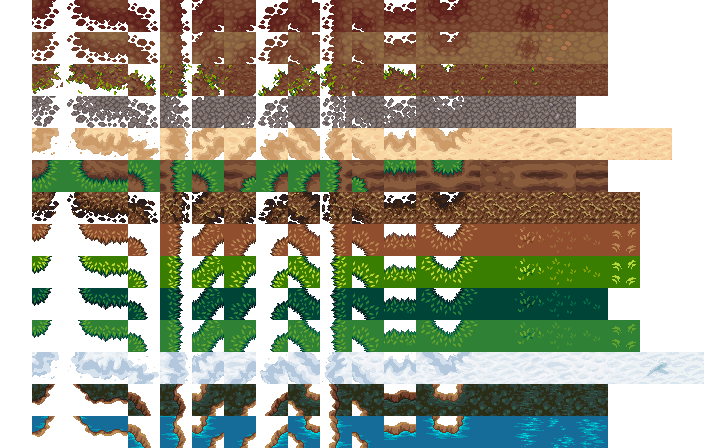
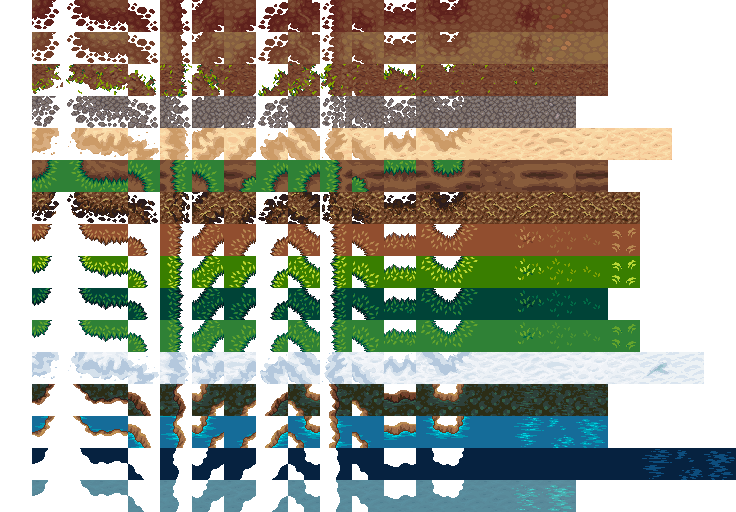
Water: shallows and fords waded, deep open sea, rivers never run uphill
Three waters from the generator's data: shallows at the edges of the sea
and lakes and fords midway along narrower rivers (everyone wades through,
creatures too, no running); common water; deep water in the open sea and
the middle of deep lakes, twice as hard to swim. A hollow too shallow for
a lake keeps its water surface, so rivers never climb. LPC shallows and
deep water with bankless edges where waters meet. World format 5.

TODO: more events that change a village's trust (author's request).

ADR-0051.

diff --git a/tools/art/import_lpc_env.py b/tools/art/import_lpc_env.py
@@ -43,6 +43,8 @@ GROUNDS = {
     "base:snow": ("Snow_1", 10),
     "base:bog": ("Water_Green", 11),
     "base:water": ("Water", 12),
+    "base:deep_water": ("Water_Deep", 13),
+    "base:shallows": ("Water_Shallows_Sand", 14),
     "base:cave_floor": ("Dirt_Dark", -1),
 }
 FARM = SRC / "lpc-farm" / "submission_daneeklu" / "tilesets"
@@ -50,6 +52,9 @@ FARM = SRC / "lpc-farm" / "submission_daneeklu" / "tilesets"
 # as corner masks (TL 1, TR 2, BL 4, BR 8) -> (column, row) of the block.
 BLOCK_MASKS = {7: (1, 0), 11: (2, 0), 13: (1, 1), 14: (2, 1), 8: (0, 2), 12: (1, 2), 4: (2, 2),
                10: (0, 3), 15: (1, 3), 5: (2, 3), 2: (0, 4), 3: (1, 4), 1: (2, 4)}
+# Waters that meet water (ADR-0051): no banks between them. Their edge
+# pieces are their fill cut to the water (not the bank) of Water's.
+SHAPE_FROM = {"Water_Shallows_Sand": "Water", "Water_Deep": "Water"}
 # Fills that are other things (animated water, a cracked variant) are left out.
 SKIP_FILLS = {"Water": {566, 569, 572}}
 
@@ -118,10 +123,18 @@ def build_terrain():
             continue
         masks = tiles[name]
         missing = [m for m in range(1, 16) if m not in masks]
-        if missing:
+        shape = SHAPE_FROM.get(name)
+        if missing and not (shape and 15 in masks):
             sys.exit("%s lacks masks %s" % (name, missing))
         for m in range(1, 15):
-            atlas.paste(tile(masks[m][0]), (m * T, r * T))
+            if not shape:
+                atlas.paste(tile(masks[m][0]), (m * T, r * T))
+                continue
+            cut = tile(masks[15][0])
+            edge = tile(tiles[shape][m][0])
+            alpha = [255 if a > 0 and b > rr + 25 else 0 for (rr, _g, b, a) in edge.getdata()]
+            cut.putalpha(Image.frombytes("L", (T, T), bytes(alpha)))
+            atlas.paste(cut, (m * T, r * T))
         # A fill must be the ground itself: whole, and like the first one
         # (some tiles marked full are other things, holes or overlays).
         first = tile(masks[15][0])

diff --git a/docs/TODO.md b/docs/TODO.md
@@ -1,18 +1,10 @@
 # Что ещё не сделано — по порядку
 
-Задачи идут в том порядке, в котором их стоит делать: каждая опирается на то, что выше. Этапы 3–12 — план автора от 21.10.2026 (мир по законам природы, вещи как изделия) с его поправками от 22.10.2026 вместе с отложенным; плавание (v0.4.0, ADR-0050) и география (v0.5.0, ADR-0049) уже сделаны; после каждого этапа — коммит, пуш и выпуск. Ниже этапов — запас без жёсткого порядка. Источник — в скобках. Решения, которые принимает автор, — в [`design/OPEN_QUESTIONS.md`](design/OPEN_QUESTIONS.md). Сделанное вычёркивается отсюда и записывается в [`PROGRESS.md`](PROGRESS.md).
-
-## Этап 5. Вода: реки, озёра, моря, болота (v0.6.0)
-
-Зависит от 4 (сделан: сток, реки с притоками, озёра в котловинах, бессточные котловины, болота в сырых низинах — ADR-0049).
-
-- Броды (мелкие места на реках, где не плывут, а идут вброд) и места для мостов — узкие, у дорог.
-- Берега озёр и рек — песок, галька, тростник по месту; глубокая вода посреди моря и больших озёр отличается от мелкой у берега.
-- Тесты: ни одна река не течёт в гору; броды есть на каждой большой реке у появления.
+Задачи идут в том порядке, в котором их стоит делать: каждая опирается на то, что выше. Этапы 3–12 — план автора от 21.10.2026 (мир по законам природы, вещи как изделия) с его поправками от 22.10.2026 вместе с отложенным; плавание (v0.4.0, ADR-0050), география (v0.5.0, ADR-0049) и вода (v0.6.0, ADR-0051) уже сделаны; после каждого этапа — коммит, пуш и выпуск. Ниже этапов — запас без жёсткого порядка. Источник — в скобках. Решения, которые принимает автор, — в [`design/OPEN_QUESTIONS.md`](design/OPEN_QUESTIONS.md). Сделанное вычёркивается отсюда и записывается в [`PROGRESS.md`](PROGRESS.md).
 
 ## Этап 6. Лодка (v0.7.0)
 
-Зависит от 5 (моря, реки, озёра). Плавание есть (ADR-0050), но между материками и через большие озёра без лодки не перебраться.
+Плавание есть (ADR-0050), но открытое море между материками глубокое (ADR-0051): без лодки не перебраться.
 
 - Лодка — изделие (ADR-0048): делается у верстака, спускается на воду, в неё садятся и плывут — быстрее плавания, без усталости, с вещами в сумке; на берегу её можно вытащить и забрать.
 - Видна всем, другие могут сесть рядом (если вместит); износ корпуса, починка.
@@ -82,6 +74,11 @@
 
 ### Деревни и жители
 
+- **Больше событий, меняющих доверие деревни** (автор, 22.10.2026): сейчас доверие растёт только от выполненной просьбы (+1) и падает от удара (−1) и убийства (−3). Нужно, чтобы деревня видела и помнила больше дел героя; что и насколько меняет доверие — данные:
+  - **хорошее:** отбить волков или разбойников от деревни и её скота; потушить пожар; помочь в голод едой или в беду лекарством; починить дом или общую постройку, помочь построить новую; найти пропавшего жителя или вещь; вытащить тонущего; помочь с жатвой или сенокосом; дары и честная торговля — продать нужное дешевле, когда в деревне недостаток; отнести письмо или товар в соседнюю деревню; научить жителя ремеслу; прийти на праздник или ярмарку и участвовать (по временам года);
+  - **плохое:** воровство из сундуков и с полей; потрава и порча посевов; разорение построек; убийство их скота; брошенная или проваленная просьба; обман в торговле;
+  - **молва:** вести о делах героя расходятся по соседним деревням, слабее с расстоянием; у каждого жителя своё мнение рядом с общим доверием деревни;
+  - журнал показывает, за что деревня благодарна и на что в обиде.
 - Истории между деревнями, рождения, семьи, смена ремесла, отказ от взятой просьбы, реакция на разрушение (ADR-0039, ADR-0042).
 
 ### Бой и персонаж

diff --git a/docs/adr/0051-shallows-and-deep-water.md b/docs/adr/0051-shallows-and-deep-water.md
@@ -1,0 +1,39 @@
+# ADR-0051 — Мелководье, броды и глубокая вода
+
+**Статус:** принято 22.10.2026 (этап 5 плана автора: «реки через озёра в море, броды и места для мостов, побережья»), реализовано. Продолжает ADR-0049 (география) и ADR-0050 (плавание). Формат мира 5, генератор поверхности версии 7.
+
+## Решение
+
+1. **Три воды вместо одной** — у генератора поверхности в данных: `water`, `shallows`, `deep`.
+   - **Мелководье** (`base:shallows`, `wade`):
+     - его проходят вброд все, и звери тоже;
+     - бежать нельзя, плыть не нужно, руки свободны;
+     - ловится мелкая рыба, набирается вода.
+   - **Обычная вода** — как прежде (ADR-0050).
+   - **Глубокая вода** (`base:deep_water`, `effort: 2`):
+     - плыть по ней вдвое тяжелее: бодрость и тепло уходят вдвое быстрее;
+     - рыба здесь крупнее: щука чаще;
+     - открытое море между материками всё глубокое, переплыть его без лодки нельзя (лодка — этап 6).
+2. **Где какая:**
+   - у кромки моря и озёр — полоса мелководья (глубина меньше 0,006 высоты, несколько клеток);
+   - посреди моря и больших глубоких озёр — глубокая вода (глубже 0,09).
+3. **Броды.**
+   - Их ставят на реки не шире 6 клеток, примерно на каждый пятый отрезок русла — по зерну и месту.
+   - Брод — это поперёк реки посередине отрезка, полосой 5 клеток вдоль течения.
+   - Мосты по-прежнему кладут дороги там, где пересекают плавную воду.
+4. **Реки не текут в гору.** Поверхность воды (заполненная высота) вниз по течению не поднимается.
+   - Мелкая котловина (мельче `LAKE_DEPTH`) не считается озером, но её поверхность сохраняется: река проходит её, не перепрыгивая через край.
+5. **Графика:** LPC `Water_Shallows_Sand` и `Water_Deep`.
+   - Кромки между водами без берегового обрыва: заливка вырезана по водной (не береговой) части краёв обычной воды.
+   - Мелководье и глубина рисуются поверх обычной воды.
+
+## Проверено
+
+- **`test_geography::test_rivers_run_down_and_have_fords`:**
+  - в трёх мирах ни одна река не поднимается;
+  - у появления есть броды, и на месте брода — мелководье поперёк реки;
+  - открытое море глубокое.
+- **`test_swimming::test_shallows_are_waded_and_deep_water_tires_more`:**
+  - брод проходим и для зверя, и для персонажа;
+  - в мелководье персонаж идёт, а не плывёт;
+  - глубокая вода — вдвое тяжелее, час в ней отнимает больше 55 бодрости.

diff --git a/docs/adr/README.md b/docs/adr/README.md
@@ -54,3 +54,4 @@
 | [0048](0048-things-of-their-own.md) | Изделия — экземпляры, сырьё — стопки: правило в данных, мебель (верстак, сундук, кровать) делается, ставится и снимается тем же экземпляром, прочность по качеству, обломки; ведро; массовые переносы, «Разложить»; формат мира 3 | Принято, реализовано |
 | [0049](0049-geography.md) | География: бесконечный мир из областей-материков в одном океане; рельеф, климат от широты, высоты и ветра, сток, озёра, реки; биомы по климату и высоте; ленивый расчёт областей; формат мира 4 (решает Q-09) | Принято, реализовано |
 | [0050](0050-swimming.md) | Плавание: вода проходима для персонажей (не для зверей), вдвое медленнее, без бега; утомляет и холодит, выбившийся из сил тонет; в воде руки заняты; пловец по плечи в воде | Принято, реализовано |
+| [0051](0051-shallows-and-deep-water.md) | Мелководье (вброд, без бега, и звери тоже), броды на реках, глубокая вода посреди моря (вдвое тяжелее плыть); реки не текут в гору | Принято, реализовано |

diff --git a/docs/PROGRESS.md b/docs/PROGRESS.md
@@ -61,6 +61,8 @@
 
 | География | Сделано (ADR-0049, 22.10.2026, v0.5.0): бесконечный мир из областей 5120×5120 клеток, в каждой — материк, острова или архипелаг, между ними океан; рельеф с горными поясами, климат от широты (пояса чередуются), высоты и западного ветра с дождевой тенью; сток к морю и в бессточные котловины, озёра, реки с притоками шире вниз по течению и петляют; биомы по климату и высоте (пустыня, горы, вершины, болота в сырых низинах), скала на вершинах; области считаются лениво; формат мира 4; обзорные карты `tools/world_map.sh` | `test_geography`, `test_surface`, `test_settlements` |
 
+| Вода | Сделано (ADR-0051, 22.10.2026, v0.6.0): мелководье у берегов морей и озёр и броды на реках — вброд, без бега, звери тоже; глубокая вода в открытом море — плыть вдвое тяжелее, рыба крупнее; реки не текут в гору | `test_geography`, `test_swimming` |
+
 ## Известные ограничения
 
 Что отложено и что ещё не сделано — [`TODO.md`](TODO.md).
